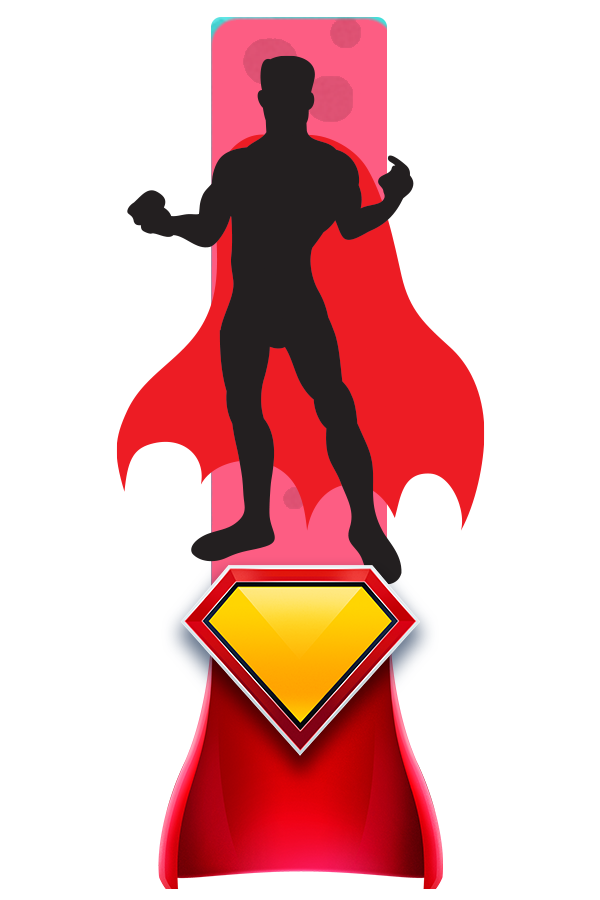
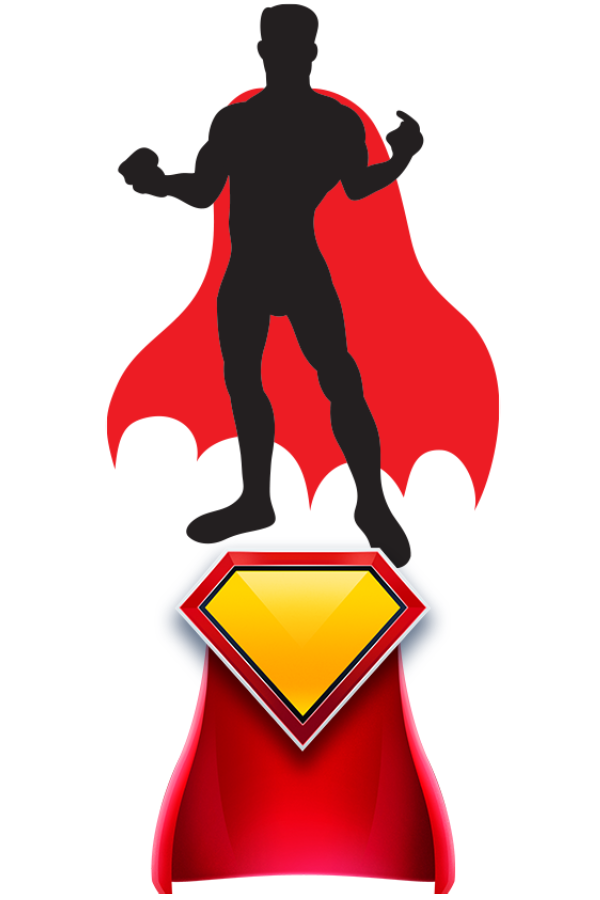
feat (superheros): fix background image

Changed region(s): [[0.18, 0.0, 0.84, 0.9956]]

diff --git a/superheros/css/styles.sass b/superheros/css/styles.sass
@@ -6,7 +6,7 @@ body
     font-family: 'Oswald', sans-serif
 
 .heros
-    background-image: url(/imgs/bg.webp)
+    background-image: url(../imgs/bg.webp)
     background-size: cover
     background-position: center
     width: 100vw

diff --git a/superheros/css/styles.css b/superheros/css/styles.css
@@ -5,7 +5,7 @@ body {
 }
 
 .heros {
-  background-image: url(/imgs/bg.webp);
+  background-image: url(../imgs/bg.webp);
   background-size: cover;
   background-position: center;
   width: 100vw;
